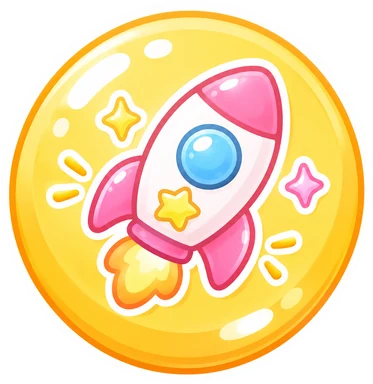
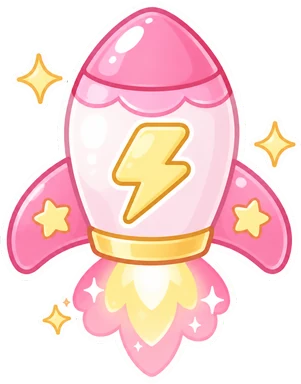
자동차 레이스 그림 2차: 장소 셋(초원·눈 나라·사탕 나라)의 하늘·땅·길, 결승 아치·출발선, 나무·곰·표지판, 부스터 로켓
Claude-Session: https://claude.ai/code/session_011wWXPXfSDQ7tZhHovBGBy9

diff --git a/src/components/Race3D.tsx b/src/components/Race3D.tsx
@@ -2,74 +2,109 @@ import { useEffect, useRef, type MutableRefObject } from 'react'
 import * as THREE from 'three'
 import { LANE_W, LAP, LAPS, itemsBetween, type ItemKind, type Race } from '../lib/race'
 import { assetUrl } from '../lib/items'
-import { createStage, cuteTree } from './stage3d'
+import { createStage } from './stage3d'
 
 /**
  * 자동차 레이스 3D 무대: 차 뒤에서 따라가며 본다. 길은 앞(-z)으로 뻗고 차는 +z 에서 -z 로 달린다.
  * 부스터·바나나·반짝이·먼지는 public/race/ 그림, 아직 그림이 없는 차·별·물웅덩이·길가는 임시 도형이다(그림이 오면 car/itemMesh 만 바꾸면 된다).
  */
-const ROAD_W = LANE_W * 3 + 0.8
-const TREES = 20, TREE_GAP = 11
+/** 길(연석 포함) 너비: 아스팔트가 세 칸(LANE_W*3)이 되도록 그림 비율(410/560)에 맞춘다 */
+const ROAD_W = LANE_W * 3 * (560 / 410)
+/** 길 그림 한 장이 덮는 길이(그림 비율 유지) */
+const ROAD_TILE = ROAD_W * (951 / 512)
+const GROUND_TILE = 10
+const PROPS = 20, PROP_GAP = 11
 
-const roadTexture = () => {
-  const c = document.createElement('canvas')
-  c.width = 256; c.height = 256
-  const g = c.getContext('2d')!
-  g.fillStyle = '#b8b3c7'; g.fillRect(0, 0, 256, 256)
-  g.fillStyle = '#ffffff'
-  for (const lx of [256 / 3, (256 * 2) / 3]) g.fillRect(lx - 3, 40, 6, 90)
-  g.fillStyle = '#ff9db8'; g.fillRect(0, 0, 10, 256); g.fillRect(246, 0, 10, 256)
-  g.fillStyle = '#ffffff'
-  for (let y = 0; y < 256; y += 32) { g.fillRect(0, y, 10, 16); g.fillRect(246, y + 16, 10, 16) }
-  return c
+export type RaceTheme = 'meadow' | 'snow' | 'candy'
+/** 장소마다 하늘색(하늘 그림 아래·안개), 길가 소품 */
+const THEMES: Record<RaceTheme, { sky: number; prop: 'tree' | 'lollipop' | null }> = {
+  meadow: { sky: 0xc9ecff, prop: 'tree' },
+  snow: { sky: 0xdad6f6, prop: null },
+  candy: { sky: 0xffc9e3, prop: 'lollipop' },
 }
 
-export function Race3D({ live }: { live: MutableRefObject<Race> }) {
+export function Race3D({ live, theme }: { live: MutableRefObject<Race>; theme: RaceTheme }) {
   const host = useRef<HTMLDivElement>(null)
   useEffect(() => {
     const el = host.current
     if (!el) return
-    const s = createStage(el, { sky: 0xbfe6ff, fog: [40, 120], shadows: false, view: { yaw: 0, pitch: 0.36, dist: 10.5, target: [0, 0.9, 0] }, fov: (w, h) => (w < h ? 66 : 48) })
+    const th = THEMES[theme]
+    const s = createStage(el, { sky: th.sky, fog: [60, 170], shadows: false, view: { yaw: 0, pitch: 0.36, dist: 10.5, target: [0, 0.9, 0] }, fov: (w, h) => (w < h ? 66 : 48) })
     const { scene, keep, lambert } = s
+    s.camera.far = 600
+    s.camera.updateProjectionMatrix()
+    const art = (name: string) => s.texOf(assetUrl(`race/${name}.webp`))
+    const rep = (t: THREE.Texture) => { t.wrapS = t.wrapT = THREE.RepeatWrapping; return t }
+
+    // 먼 하늘: 하늘 그림을 멀리 세워 두고 늘 카메라를 따라온다(언덕 아랫단이 땅 끝과 만나게)
+    const skyTex = art(`sky_${theme}`)
+    const SKY_H = 110, SKY_Z = 230
+    const sky = new THREE.Mesh(keep(new THREE.PlaneGeometry(SKY_H * 3, SKY_H)), keep(new THREE.MeshBasicMaterial({ map: skyTex, fog: false, depthWrite: false })))
+    sky.position.y = SKY_H * 0.25 + 1
+    sky.renderOrder = -1
+    scene.add(sky)
 
     // 땅·길: 차를 따라 움직이는 판, 무늬는 반대로 밀어서 땅에 붙어 있게 한다
-    const grassTex = (() => { const c = document.createElement('canvas'); c.width = c.height = 64; const g = c.getContext('2d')!; g.fillStyle = '#bfe8a0'; g.fillRect(0, 0, 64, 64); g.fillStyle = '#d6f3bd'; g.fillRect(0, 0, 32, 32); g.fillRect(32, 32, 32, 32); const t = s.texOf(c); t.wrapS = t.wrapT = THREE.RepeatWrapping; t.repeat.set(40, 40); return t })()
-    const grass = new THREE.Mesh(keep(new THREE.PlaneGeometry(260, 260)), keep(new THREE.MeshBasicMaterial({ map: grassTex })))
+    const gTex = rep(art(`ground_${theme}`))
+    gTex.repeat.set(500 / GROUND_TILE, 500 / GROUND_TILE)
+    const grass = new THREE.Mesh(keep(new THREE.PlaneGeometry(500, 500)), keep(new THREE.MeshBasicMaterial({ map: gTex })))
     grass.rotation.x = -Math.PI / 2
     scene.add(grass)
-    const rt = s.texOf(roadTexture())
-    rt.wrapS = rt.wrapT = THREE.RepeatWrapping
-    rt.repeat.set(1, 260 / ROAD_W)
+    const rt = rep(art(`road_${theme}`))
+    rt.repeat.set(1, 260 / ROAD_TILE)
     const road = new THREE.Mesh(keep(new THREE.PlaneGeometry(ROAD_W, 260)), keep(new THREE.MeshBasicMaterial({ map: rt })))
     road.rotation.x = -Math.PI / 2
     road.position.y = 0.02
     scene.add(road)
 
-    // 바퀴 시작·끝 줄
-    const lineGeo = keep(new THREE.PlaneGeometry(ROAD_W, 1.2))
-    const lineTex = (() => { const c = document.createElement('canvas'); c.width = 256; c.height = 32; const g = c.getContext('2d')!; for (let i = 0; i < 16; i++) { g.fillStyle = i % 2 ? '#ffffff' : '#333'; g.fillRect(i * 16, 0, 16, 16); g.fillStyle = i % 2 ? '#333' : '#ffffff'; g.fillRect(i * 16, 16, 16, 16) } return s.texOf(c) })()
-    const lineMat = keep(new THREE.MeshBasicMaterial({ map: lineTex }))
+    // 바퀴 시작·끝 줄(땅에 깐 체크무늬)과 결승 아치(세워 둔 그림, 가운데는 비어 있어서 차가 지나간다)
+    const lineTex = art('startline'), archTex = art('arch')
+    const lineW = LANE_W * 3 + 0.6
+    const lineGeo = keep(new THREE.PlaneGeometry(lineW, lineW * (115 / 768)))
+    const lineMat = keep(new THREE.MeshBasicMaterial({ map: lineTex, transparent: true, depthWrite: false }))
+    const ARCH_W = ROAD_W + 4.5
+    const archGeo = keep(new THREE.PlaneGeometry(ARCH_W, ARCH_W * (574 / 768)))
+    const archMat = keep(new THREE.MeshBasicMaterial({ map: archTex, transparent: true, alphaTest: 0.35, side: THREE.DoubleSide }))
     for (let k = 0; k <= LAPS; k++) {
       const m = new THREE.Mesh(lineGeo, lineMat)
       m.rotation.x = -Math.PI / 2
-      m.position.set(0, 0.03, -k * LAP)
+      m.position.set(0, 0.04, -k * LAP)
+      m.renderOrder = 1
       scene.add(m)
-      if (k > 0) {
-        const post = keep(new THREE.BoxGeometry(0.4, 4, 0.4)), mat = lambert(0xff8fab)
-        for (const sx of [-1, 1]) { const p = new THREE.Mesh(post, mat); p.position.set(sx * (ROAD_W / 2 + 0.3), 2, -k * LAP); scene.add(p) }
-        const bar = new THREE.Mesh(keep(new THREE.BoxGeometry(ROAD_W + 1, 0.8, 0.4)), lineMat)
-        bar.position.set(0, 4, -k * LAP)
-        scene.add(bar)
-      }
+      const arch = new THREE.Mesh(archGeo, archMat)
+      arch.position.set(0, ARCH_W * (574 / 768) / 2 - 0.2, -k * LAP - (k === 0 ? 12 : 0))
+      scene.add(arch)
     }
 
-    // 길가 나무: 뒤로 지나가면 앞으로 옮겨 다시 쓴다
-    const leafs = [0x8fd18a, 0xa5dc8f, 0xf2a9c3, 0xb9a6f0]
-    const trees = Array.from({ length: TREES }, (_, i) => {
-      const side = i % 2 ? 1 : -1
-      const t = cuteTree(s, side * (ROAD_W / 2 + 3 + (i % 3) * 2.2), -i * TREE_GAP, 0.9 + (i % 3) * 0.2, leafs[i % leafs.length])
-      return { t, k: i }
+    // 길가: 장소마다 다른 나무(뒤로 지나가면 앞으로 옮겨 다시 쓴다) + 응원하는 곰 + 표지판
+    const sideX = ROAD_W / 2 + 3
+    const spriteOf = (tex: THREE.Texture, w: number, h: number, y: number) => { const sp = new THREE.Sprite(keep(new THREE.SpriteMaterial({ map: tex, transparent: true, depthWrite: false }))); sp.scale.set(w, h, 1); sp.position.y = y; return sp }
+    const pineTrunk = keep(new THREE.CylinderGeometry(0.22, 0.3, 1.2, 8)), pineTrunkMat = keep(new THREE.MeshBasicMaterial({ color: 0xa88a6a }))
+    const pineCone = keep(new THREE.ConeGeometry(1, 1, 12)), pineMats = [0xdcebff, 0xeaf3ff, 0xf7fbff].map((c) => keep(new THREE.MeshBasicMaterial({ color: c })))
+    const props = Array.from({ length: PROPS }, (_, i) => {
+      const side = i % 2 ? 1 : -1, x = side * (sideX + (i % 3) * 2.2), z = -i * PROP_GAP
+      if (th.prop) {
+        const big = 0.9 + (i % 3) * 0.2
+        const o = th.prop === 'tree' ? spriteOf(art('prop_tree'), 4.6 * big, 4.2 * big, 2.1 * big) : spriteOf(art('prop_lollipop'), 3.1 * big, 4.8 * big, 2.4 * big)
+        o.position.x = x; o.position.z = z; scene.add(o)
+        return { o, k: i }
+      }
+      // 그림이 없는 눈 나라: 눈 덮인 소나무(뿔 세 개를 쌓는다. 그림자 없이 밝게)
+      const o = new THREE.Group(), sc = 0.9 + (i % 3) * 0.2
+      const trunk = new THREE.Mesh(pineTrunk, pineTrunkMat); trunk.position.y = 0.5; o.add(trunk)
+      ;[[1.9, 1.5, 2.2], [1.5, 1.3, 3.3], [1.1, 1.1, 4.3]].forEach(([r, h, y], j) => { const c = new THREE.Mesh(pineCone, pineMats[j]); c.scale.set(r, h, r); c.position.y = y - 0.2; o.add(c) })
+      o.position.set(x, 0, z); o.scale.setScalar(sc); scene.add(o)
+      return { o, k: i }
     })
+    const BEARS = 8, BEAR_GAP = 62
+    const bearTex = art('prop_bear'), signTex = art('prop_sign')
+    const bears = Array.from({ length: BEARS }, (_, i) => {
+      const o = spriteOf(bearTex, 2.6, 2.5, 1.25)
+      o.position.set((i % 2 ? 1 : -1) * (ROAD_W / 2 + 1.6), 1.25, -30 - i * BEAR_GAP)
+      scene.add(o)
+      return { o, k: i }
+    })
+    for (let k = 0; k <= LAPS; k++) { const o = spriteOf(signTex, 2.3, 2.1, 1.05); o.position.set(-(ROAD_W / 2 + 1.5), 1.05, -k * LAP - 4); scene.add(o) }
 
     // 차: 임시 도형(몸통·바퀴·운전하는 아이 머리)
     const car = new THREE.Group()
@@ -87,13 +122,11 @@ export function Race3D({ live }: { live: MutableRefObject<Race> }) {
     // 아이템 임시 도형
     const mats = { star: lambert(0xffd54a), puddle: keep(new THREE.MeshBasicMaterial({ color: 0x7ec8ff, transparent: true, opacity: 0.85 })) }
     const geos = { star: keep(new THREE.OctahedronGeometry(0.5)), puddle: keep(new THREE.CircleGeometry(0.85, 20)) }
-    // 그림 판(항상 카메라를 본다): 부스터 코인·바나나
-    const art = (name: string) => s.texOf(assetUrl(`race/${name}.webp`))
-    const spriteOf = (tex: THREE.Texture, w: number, h: number, y: number) => { const sp = new THREE.Sprite(keep(new THREE.SpriteMaterial({ map: tex, transparent: true, depthWrite: false }))); sp.scale.set(w, h, 1); sp.position.y = y; return sp }
+    // 그림 판(항상 카메라를 본다): 부스터 로켓·바나나
     const boostTex = art('item_boost'), bananaTex = art('item_banana')
     const itemMesh = (kind: ItemKind) => {
       if (kind === 'boost' || kind === 'banana') {
-        const g = new THREE.Group(), sp = kind === 'boost' ? spriteOf(boostTex, 1.5, 1.5, 1.0) : spriteOf(bananaTex, 1.6, 1.1, 0.6)
+        const g = new THREE.Group(), sp = kind === 'boost' ? spriteOf(boostTex, 1.3, 1.65, 1.0) : spriteOf(bananaTex, 1.6, 1.1, 0.6)
         g.add(sp); g.userData.kind = kind; g.userData.m = sp
         return g
       }
@@ -114,8 +147,9 @@ export function Race3D({ live }: { live: MutableRefObject<Race> }) {
       t += dt
       const r = live.current
       const cz = -r.d, cx = r.x * LANE_W
-      grass.position.z = cz; road.position.z = cz - 60
-      grassTex.offset.y = -cz / 6.5; rt.offset.y = -cz / ROAD_W
+      grass.position.z = cz; grass.position.x = cx * 0; road.position.z = cz - 60
+      gTex.offset.y = -cz / GROUND_TILE; rt.offset.y = -cz / ROAD_TILE
+      sky.position.x = cx * 0.6; sky.position.z = cz - SKY_Z
       // 차: 옆으로 가면 살짝 기울고, 느려질 땐 흔들, 달릴 땐 통통
       car.position.set(cx, Math.abs(Math.sin(t * 14)) * 0.04 * Math.min(1, r.speed / 20), cz)
       car.rotation.z = (r.lane - r.x) * -0.18
@@ -129,8 +163,10 @@ export function Race3D({ live }: { live: MutableRefObject<Race> }) {
       sparkleSp.visible = r.sparkle > 0; sparkleSp.position.set(cx, 1.7 + (0.6 - r.sparkle) * 0.8, cz - 0.5)
       dustSp.visible = r.dust > 0; dustSp.position.set(cx, 1.0, cz - 0.3); dustSp.scale.setScalar(1 + (0.7 - r.dust) * 1.2)
       // 나무
-      const period = TREES * TREE_GAP
-      for (const tr of trees) { const base = -tr.k * TREE_GAP; tr.t.position.z = base + period * Math.floor((cz + 25 - base) / period) }
+      const period = PROPS * PROP_GAP
+      for (const tr of props) { const base = -tr.k * PROP_GAP; tr.o.position.z = base + period * Math.floor((cz + 25 - base) / period) }
+      const bp = BEARS * BEAR_GAP
+      for (const b of bears) { const base = -30 - b.k * BEAR_GAP; b.o.position.z = base + bp * Math.floor((cz + 25 - base) / bp) }
       // 아이템
       const want = new Set<number>()
       for (const it of itemsBetween(r.d - 20, r.d + 110, r.seed)) {
@@ -144,6 +180,6 @@ export function Race3D({ live }: { live: MutableRefObject<Race> }) {
       for (const [id, g] of shown) if (!want.has(id)) { scene.remove(g); shown.delete(id) }
     })
     return () => s.dispose()
-  }, [live])
+  }, [live, theme])
   return <div ref={host} aria-hidden className="absolute inset-0" />
 }

diff --git a/src/components/RaceGame.tsx b/src/components/RaceGame.tsx
@@ -7,6 +7,15 @@ import { playCloud, playGold, playHop, playStar, playTap, playWin, startBgm, sto
 
 // three.js 가 커서 레이스를 열 때만 받는다
 const Race3D = lazy(() => import('./Race3D').then((m) => ({ default: m.Race3D })))
+import type { RaceTheme } from './Race3D'
+
+const THEME_KEY = 'ryuso.race.theme'
+const THEMES: { id: RaceTheme; ico: string; name: string }[] = [
+  { id: 'meadow', ico: '🌳', name: '초원' },
+  { id: 'snow', ico: '❄', name: '눈 나라' },
+  { id: 'candy', ico: '🍭', name: '사탕 나라' },
+]
+const readTheme = (): RaceTheme => { try { const v = localStorage.getItem(THEME_KEY); return v === 'snow' || v === 'candy' ? v : 'meadow' } catch { return 'meadow' } }
 
 const img = (name: string) => assetUrl(`race/${name}.webp`)
 const roundBtn = 'pointer-events-auto h-24 w-24 active:scale-90 drop-shadow-lg'
@@ -19,6 +28,8 @@ export function RaceGame({ onExit }: { onExit: () => void }) {
   const [oops, setOops] = useState(0)
   const [paid, setPaid] = useState(0)
   const [paused, setPaused] = useState(false)
+  const [theme, setTheme] = useState<RaceTheme>(readTheme)
+  const pickTheme = (t: RaceTheme) => { setTheme(t); playTap(); try { localStorage.setItem(THEME_KEY, t) } catch { /* 저장 못 해도 이번 판은 그 장소 */ } }
   const saved = useRef(false)
 
   // 달리는 동안 노래
@@ -68,7 +79,7 @@ export function RaceGame({ onExit }: { onExit: () => void }) {
   const oopsOn = useOops(oops)
   return (
     <section aria-label="자동차 레이스" className="relative h-full overflow-hidden rounded-3xl bg-[#bfe6ff] select-none">
-      {phase !== 'intro' && <Suspense fallback={null}><Race3D live={live} /></Suspense>}
+      {phase !== 'intro' && <Suspense fallback={null}><Race3D live={live} theme={theme} /></Suspense>}
       <div className="pointer-events-none absolute inset-x-2 top-2 z-10 flex items-start justify-between gap-2">
         <div className="flex items-center gap-1.5">
           <span className="rounded-full bg-white/90 px-3 py-1.5 text-sm font-black text-[#c0587a] shadow">🏎 자동차 레이스</span>
@@ -113,6 +124,14 @@ export function RaceGame({ onExit }: { onExit: () => void }) {
             <p className="m-0 text-5xl">🏎</p>
             <p className="m-0 text-xl font-black text-[#c0587a]">자동차 레이스</p>
             <p className="m-0 text-sm leading-snug font-bold text-[#6b4b52]">◀ ▶ 를 눌러서 옆 칸으로 가요.<br />⭐ 별은 모으고, 🚀 부스터는 빨라져요.<br />🍌 바나나와 💧 물웅덩이는 살짝 느려져요.<br />{LAPS}바퀴를 달리거나 {TIME_LIMIT}초가 되면 끝이에요!</p>
+            <div role="radiogroup" aria-label="달릴 곳" className="flex w-full gap-2">
+              {THEMES.map((t) => (
+                <button key={t.id} role="radio" aria-checked={theme === t.id} onClick={() => pickTheme(t.id)}
+                  className={`flex flex-1 flex-col items-center rounded-2xl border-2 py-1.5 text-xs font-black ${theme === t.id ? 'border-[#ff8fab] bg-[#fff0f5] text-[#c0587a]' : 'border-transparent bg-[#f6eef8] text-[#7a3d8f]'}`}>
+                  <span className="text-2xl leading-none">{t.ico}</span>{t.name}
+                </button>
+              ))}
+            </div>
             <button onClick={start} className="min-h-12 w-full rounded-full bg-gradient-to-r from-[#ff8fab] to-[#c58bff] text-lg font-black text-white shadow-lg active:scale-95">출발하기!</button>
           </div>
         </div>
